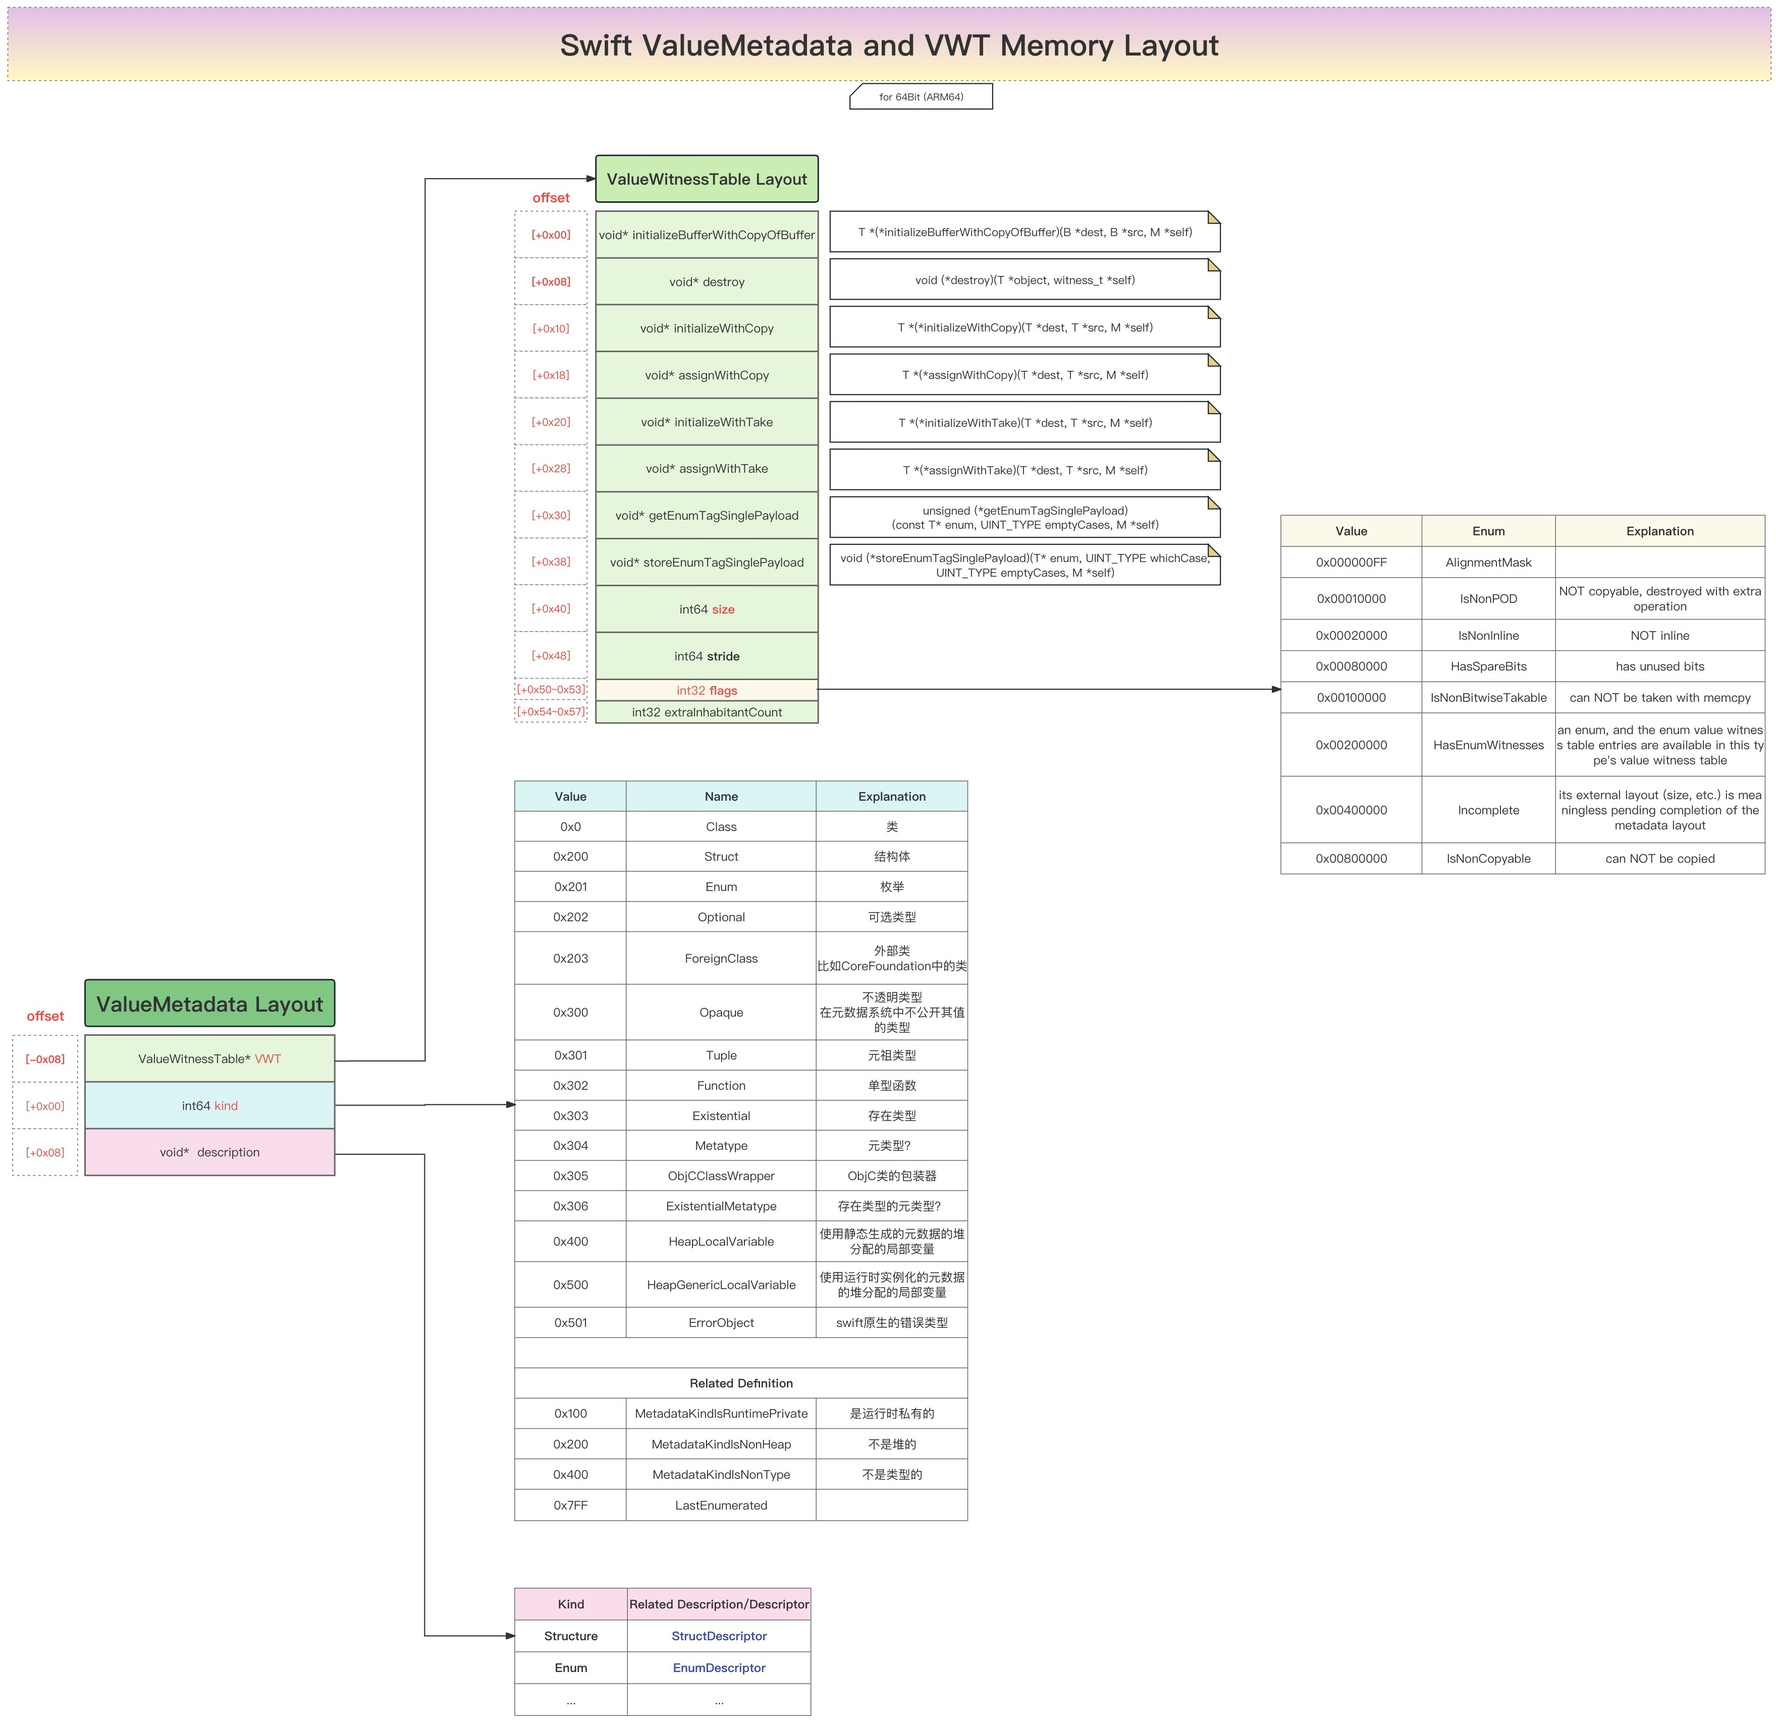
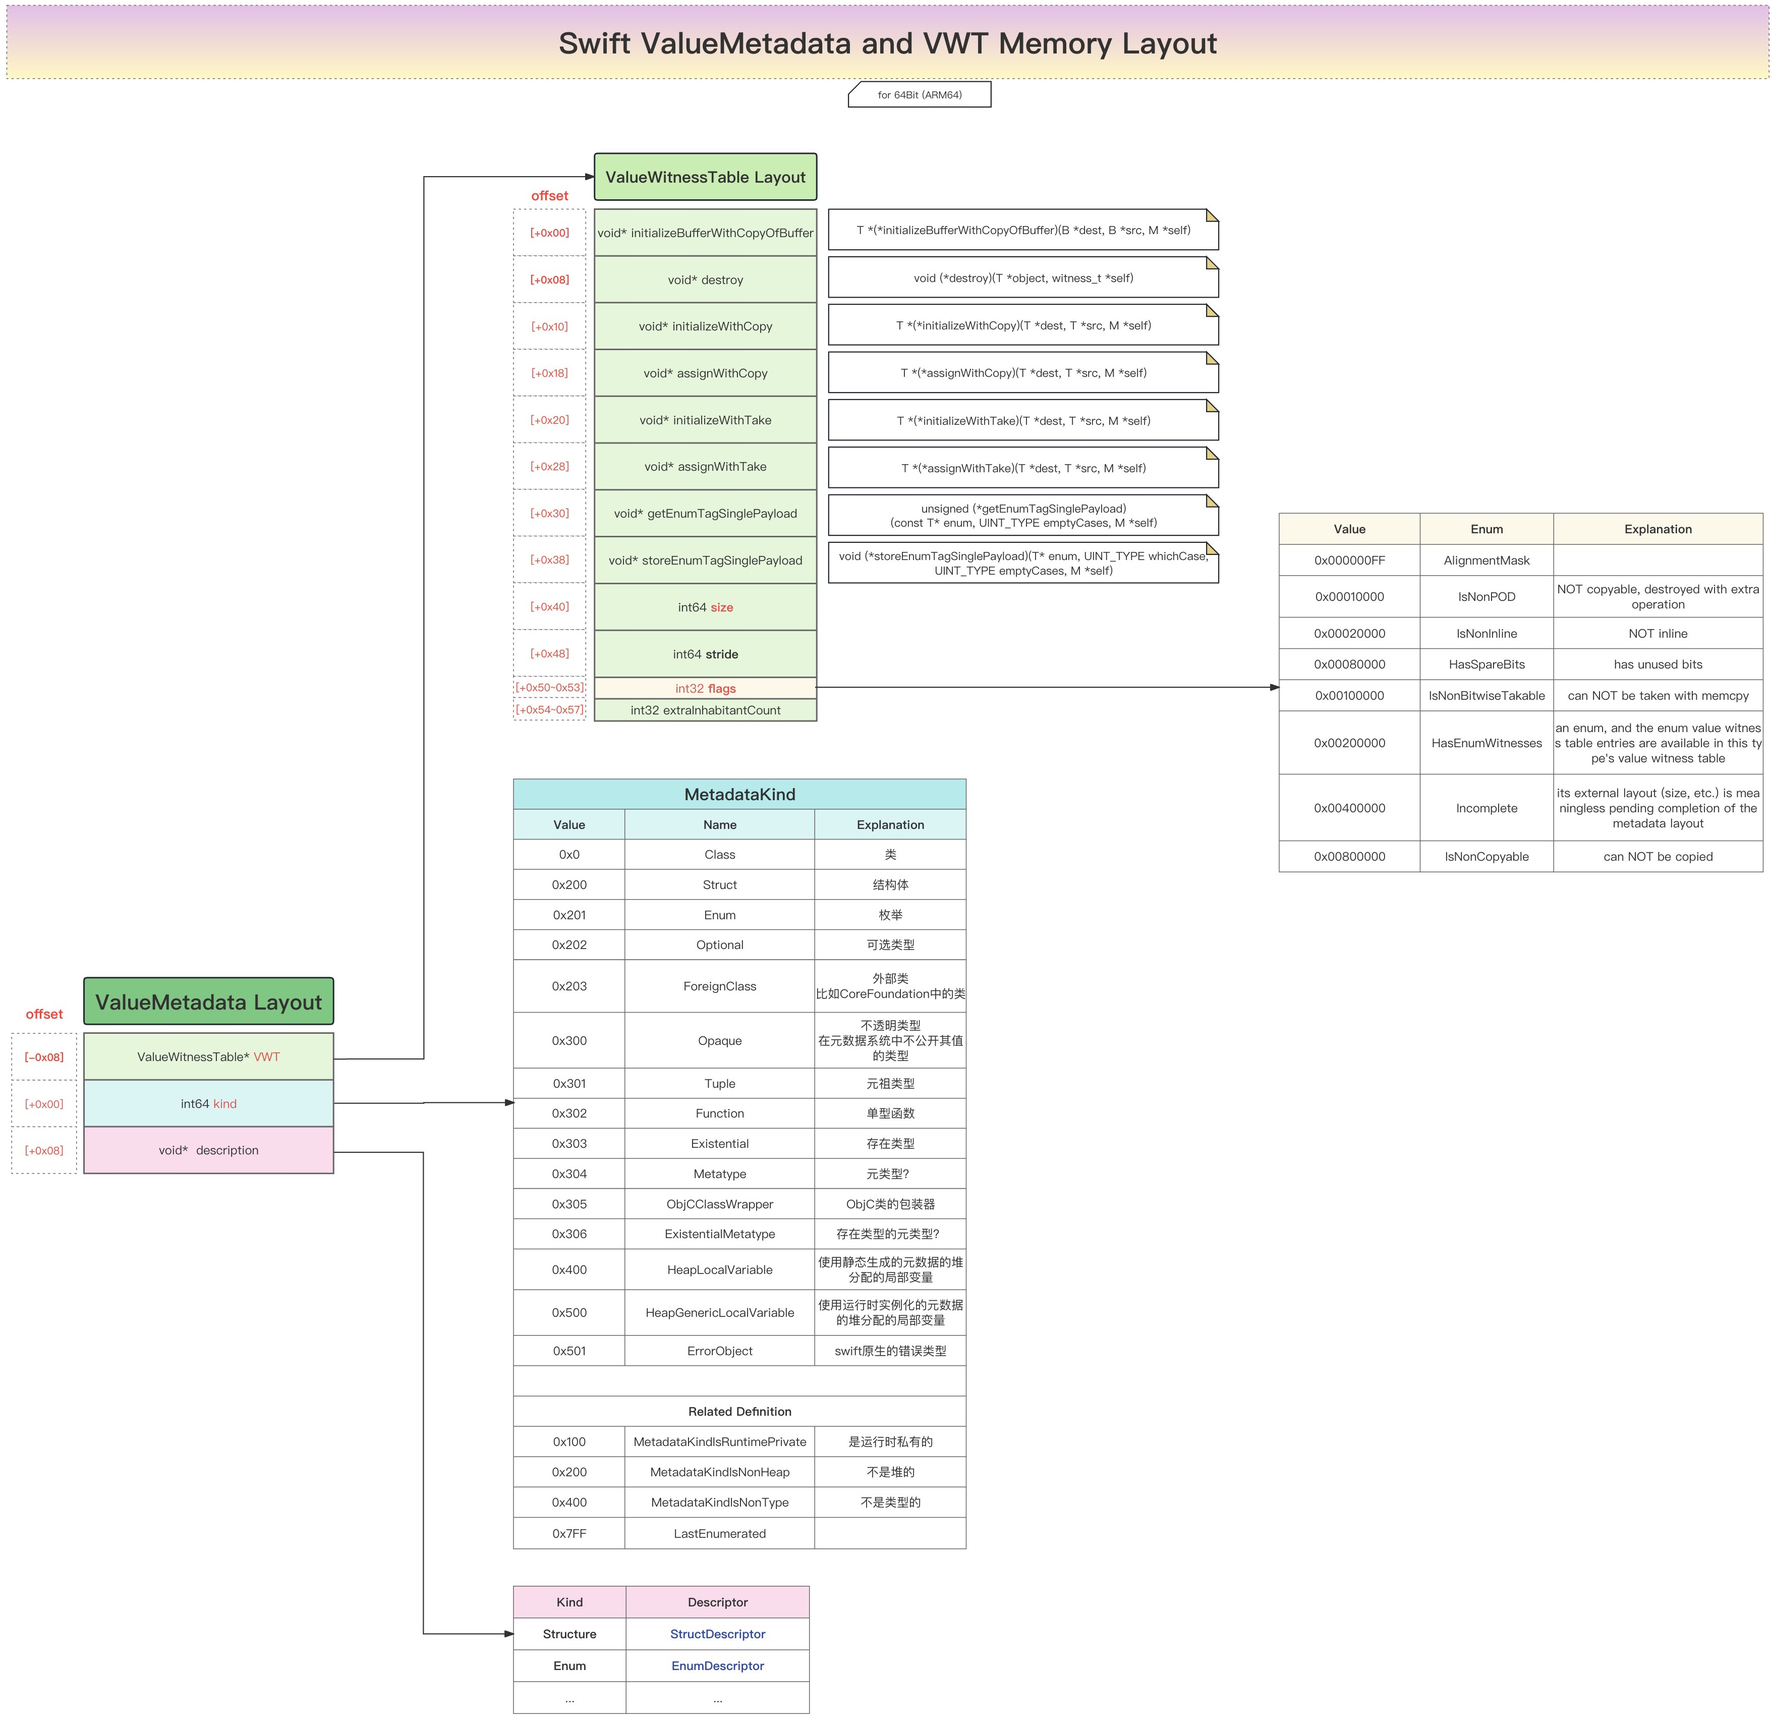
1. add Structure memory layout 2. update ValueMetadata memory layout

diff --git a/src/common_type/struct/memory_layout/example.md b/src/common_type/struct/memory_layout/example.md
@@ -1,1 +1,273 @@
 # 举例
+
+## 纯Structure=不带Protocol的Structure
+
+```swift
+struct Person {
+    let name = "Crifan Li"
+    let height = 1.83
+    let isMale = true
+    let age = 20
+}
+var person = Person()
+```
+
+对应内存数据：
+
+```bash
+(lldb) x/8xg 0x0000000102f82bf0
+0x102f82bf0: 0x4c206e6166697243 0xe900000000000069
+0x102f82c00: 0x3ffd47ae147ae148 0x0000000000000001
+0x102f82c10: 0x0000000000000014 0x0000000000000000
+0x102f82c20: 0x0000000000000000 0x0000000000000000
+(lldb) p/c 0x4c206e6166697243
+(Int) Crifan L
+(lldb) p/c 0x00000000000069
+(Int) i\0\0\0\0\0\0\0
+(lldb) p/f 0x3ffd47ae147ae148
+(Int) 1.8300000000000001
+(lldb) x/8xb 0x102f82c08
+0x102f82c08: 0x01 0x00 0x00 0x00 0x00 0x00 0x00 0x00
+(lldb) p/d 0x0000000000000014
+(Int) 20
+```
+
+->
+
+* Person结构体
+  * 大小=40=0x28
+  * 内存布局
+    * Person实例= person = 0x0000000102f82bf0
+      * [+0x00~0x08] = String name
+        * 0x4c206e6166697243 0xe900000000000069
+          * "Crifan Li"
+      * [+0x10] = Float height
+        * 0x3ffd47ae147ae148
+          * Float值：1.83
+      * [+0x18] = bool isMale
+        * 0x01 = true
+      * [+0x20] = Int age
+        * 0x0000000000000014 = 20
+
+## 带Protocol的Structure
+
+### Struct结构体字段可以放得下`ValueBuffer[3]`的内存布局
+
+代码：
+
+```swift
+protocol Drivable {
+    func drive()
+    var numberOfWheels: Int { get }
+}
+
+struct Car: Drivable {
+    let numberOfWheels = 4
+    let brand = "Tank300-Hi4T"
+
+    func drive() { }
+}
+
+var curCar:Drivable = Car()
+```
+
+->
+
+```bash
+(lldb) x/8xg 0x000000010227aba0
+0x10227aba0: 0x0000000000000004 0x2d3030336b6e6154
+0x10227abb0: 0xec00000054346948 0x0000000102274450
+0x10227abc0: 0x0000000102274188 0x0000000000000000
+0x10227abd0: 0x0000000000000000 0x0000000000000000
+
+(lldb) p/c 0x2d3030336b6e6154
+(Int) Tank300-
+(lldb) p/c 0x00000054346948
+(Int) Hi4T\0\0\0\0
+```
+
+->
+
+* Protocol的Structure，字段没超过ValueBuffer[3] = ValueBuffer[3]可以放得下Structure的字段 的内存布局：Car = 0x000000010227aba0
+  * [+0x00] = ValueBuffer[0] = int64 numberOfWheels
+    * 0x0000000000000004
+  * [+0x08~0x10] = ValueBuffer[1:2] = String brand
+    * 0x2d3030336b6e6154 0xec00000054346948
+      * "Tank300-Hi4T"
+  * [+0x18] = TypeMetadata * typeMetadata
+    * 0x0000000102274450 = typeMetadata_struct_Car
+      * type metadata for SwiftBasic.Car
+  * [+0x20] = PWT * pwt
+    * 0x0000000102274188 = PWT_Car
+      * protocol witness table for SwiftBasic.Car : SwiftBasic.Drivable in SwiftBasic
+
+其中：
+
+* 0x0000000102274450 = typeMetadata_struct_Car
+
+```bash
+(lldb) im loo -va 0x0000000102274450
+  Address: SwiftBasic[0x0000000100018450] (SwiftBasic.__DATA_CONST.__const + 808)
+  Summary: SwiftBasic`type metadata for SwiftBasic.Car
+    Module: file = "/Users/crifan/Library/Developer/Xcode/DerivedData/SwiftBasic-gbbekuhnjvcbzueioosvbqhdnlyq/Build/Products/Debug-iphoneos/SwiftBasic.app/SwiftBasic", arch = "arm64"
+    Symbol: id = {0x000004be}, range = [0x0000000102274450-0x0000000102274468), name="type metadata for SwiftBasic.Car", mangled="$s10SwiftBasic3CarVN"
+```
+
+* 0x0000000102274188 = PWT_Car
+
+```bash
+(lldb) im loo -va 0x0000000102274188
+  Address: SwiftBasic[0x0000000100018188] (SwiftBasic.__DATA_CONST.__const + 96)
+  Summary: SwiftBasic`protocol witness table for SwiftBasic.Car : SwiftBasic.Drivable in SwiftBasic
+    Module: file = "/Users/crifan/Library/Developer/Xcode/DerivedData/SwiftBasic-gbbekuhnjvcbzueioosvbqhdnlyq/Build/Products/Debug-iphoneos/SwiftBasic.app/SwiftBasic", arch = "arm64"
+    Symbol: id = {0x000004ac}, range = [0x0000000102274188-0x00000001022741a0), name="protocol witness table for SwiftBasic.Car : SwiftBasic.Drivable in SwiftBasic", mangled="$s10SwiftBasic3CarVAA8DrivableAAWP"
+```
+
+### Structue字段超过`ValueBuffer[3]`的Struct结构体的内存布局
+
+代码：
+
+```swift
+protocol Drivable {
+    func drive()
+    var numberOfWheels: Int { get }
+}
+
+struct Bus: Drivable {
+    let numberOfWheels = 8
+    let fare = 2.25
+    let seats = 28
+    let totalOccupancy = 38
+
+    let isElectric = true
+
+    func drive() { }
+}
+
+var curBus:Drivable = Bus()
+```
+
+![xcode_struct_protocol_car](../../../assets/img/xcode_struct_protocol_car.png)
+
+对应的生成的相关初始化代码是：
+
+```c
+void *_s6Empty221PersistenceControllerV6sharedACvau_5()
+{
+  if ( one-time initialization token for curBus != -1 )
+    swift_once(&one-time initialization token for curBus, one-time initialization function for curBus);
+  return &curBus;
+}
+```
+
+![struct_ida_car_init_token](../../../assets/img/struct_ida_car_init_token.png)
+
+和：
+
+```c
+void *one-time initialization function for curBus()
+{
+  char copySrc[33]; // [xsp+28h] [xbp-28h] BYREF
+
+  Bus.init()();
+  TypeMetadata_Bus_10001EBE0 = &type metadata for Bus;
+  PWT_Bus_10001EBE8 = &protocol witness table for Bus;
+  curBus = swift_allocObject(&MetadataKind_HeapLocalVariable_Bus_100018598, 0x38LL, 7LL);
+  return memcpy((void *)(curBus + 0x10LL), copySrc, 0x21uLL);
+}
+```
+
+![struct_ida_car_init_func](../../../assets/img/struct_ida_car_init_func.png)
+
+-》相关调试数据：
+
+```bash
+-------------- Drivable --------------
+变量的地址: 0x0000000104bdebc8
+变量的内存: 0x0000000283354140 0x0000000000000000 0x0000000000000000 0x0000000104bd84d0 0x0000000104bd81a0
+变量的大小: 40=0x28
+
+(lldb) x/6xg 0x0000000104bdebc8
+0x104bdebc8: 0x0000000283354140 0x0000000000000000
+0x104bdebd8: 0x0000000000000000 0x0000000104bd84d0
+0x104bdebe8: 0x0000000104bd81a0 0x0000000000000000
+(lldb) x/8xg 0x0000000283354140
+0x283354140: 0x0000000104bd8598 0x0000000000000003
+0x283354150: 0x0000000000000008 0x4002000000000000
+0x283354160: 0x000000000000001c 0x0000000000000026
+0x283354170: 0x00000003f11bc601 0x00000001f9b262ce
+(lldb) im loo -va 0x0000000104bd84d0
+      Address: SwiftBasic[0x00000001000184d0] (SwiftBasic.__DATA_CONST.__const + 936)
+      Summary: SwiftBasic`type metadata for SwiftBasic.Bus
+       Module: file = "/Users/crifan/Library/Developer/Xcode/DerivedData/SwiftBasic-gbbekuhnjvcbzueioosvbqhdnlyq/Build/Products/Debug-iphoneos/SwiftBasic.app/SwiftBasic", arch = "arm64"
+       Symbol: id = {0x000004c1}, range = [0x0000000104bd84d0-0x0000000104bd84f8), name="type metadata for SwiftBasic.Bus", mangled="$s10SwiftBasic3BusVN"
+(lldb) im loo -va 0x0000000104bd81a0
+      Address: SwiftBasic[0x00000001000181a0] (SwiftBasic.__DATA_CONST.__const + 120)
+      Summary: SwiftBasic`protocol witness table for SwiftBasic.Bus : SwiftBasic.Drivable in SwiftBasic
+       Module: file = "/Users/crifan/Library/Developer/Xcode/DerivedData/SwiftBasic-gbbekuhnjvcbzueioosvbqhdnlyq/Build/Products/Debug-iphoneos/SwiftBasic.app/SwiftBasic", arch = "arm64"
+       Symbol: id = {0x000004ad}, range = [0x0000000104bd81a0-0x0000000104bd81b8), name="protocol witness table for SwiftBasic.Bus : SwiftBasic.Drivable in SwiftBasic", mangled="$s10SwiftBasic3BusVAA8DrivableAAWP"
+(lldb) p/f 0x4002000000000000
+(Int) 2.25
+(lldb) p/d 0x000000000000001c
+(Int) 28
+(lldb) p/d 0x0000000000000026
+(Int) 38
+(lldb) x/8xb 0x283354170
+0x283354170: 0x01 0xc6 0x1b 0xf1 0x03 0x00 0x00 0x00
+(lldb) x/2xg 0x0000000104bd8598
+0x104bd8598: 0x0000000000000400 0x0000000000000010
+```
+
+->含义：
+
+* Protocol的Structure的，且Structure字段超过ValueBuffer[3]的（Bus的）内存布局 = 
+  * [+0x00] = ValueBuffer[0] = Structure的指针
+    * 0x0000000283354140 = curBus的ptr
+      * [+0x00] = MetadataKind kind
+        * = 0x0000000000000400 == HeapLocalVariable
+          * Bus是HeapLocalVariable类型变量
+            * 内存是在堆中分配的
+            * 且是个本地临时变量
+      * [+0x08] = int64 refCount
+        * 0x0000000000000003
+      * Structure自己的属性值
+        * [+0x10] = int64 numberOfWheels
+          * 0x0000000000000008
+        * [+0x18] = float fare
+          * 0x4002000000000000 == 2.25
+        * [+0x20] = int64 seats
+          * 0x000000000000001c == 28
+        * [+0x28] = int64 totalOccupancy
+          * 0x0000000000000026 == 38
+        * [+0x30] = bool(int8) isElectric
+          * 0x01
+  * [+0x08] = ValueBuffer[1] = 空 = 没用
+  * [+0x10] = ValueBuffer[2] = 空 = 没用
+  * [+0x18] = TypeMetadata * typeMetadata
+    * 0x0000000104bd84d0 = typeMetadata_struct_Bus
+      * type metadata for SwiftBasic.Bus
+  * [+0x20] = PWT * pwt
+    * 0x0000000104bd81a0 = PWT_Bus
+      * protocol witness table for SwiftBasic.Bus : SwiftBasic.Drivable in SwiftBasic
+
+其中：
+
+* 0x0000000104bd84d0 = typeMetadata_struct_Bus
+
+```bash
+(lldb) im loo -va 0x0000000104bd84d0
+  Address: SwiftBasic[0x00000001000184d0] (SwiftBasic.__DATA_CONST.__const + 936)
+  Summary: SwiftBasic`type metadata for SwiftBasic.Bus
+    Module: file = "/Users/crifan/Library/Developer/Xcode/DerivedData/SwiftBasic-gbbekuhnjvcbzueioosvbqhdnlyq/Build/Products/Debug-iphoneos/SwiftBasic.app/SwiftBasic", arch = "arm64"
+    Symbol: id = {0x000004c1}, range = [0x0000000104bd84d0-0x0000000104bd84f8), name="type metadata for SwiftBasic.Bus", mangled="$s10SwiftBasic3BusVN"
+```
+
+* 0x0000000104bd81a0 = PWT_Bus
+
+```bash
+(lldb) im loo -va 0x0000000104bd81a0
+  Address: SwiftBasic[0x00000001000181a0] (SwiftBasic.__DATA_CONST.__const + 120)
+  Summary: SwiftBasic`protocol witness table for SwiftBasic.Bus : SwiftBasic.Drivable in SwiftBasic
+    Module: file = "/Users/crifan/Library/Developer/Xcode/DerivedData/SwiftBasic-gbbekuhnjvcbzueioosvbqhdnlyq/Build/Products/Debug-iphoneos/SwiftBasic.app/SwiftBasic", arch = "arm64"
+    Symbol: id = {0x000004ad}, range = [0x0000000104bd81a0-0x0000000104bd81b8), name="protocol witness table for SwiftBasic.Bus : SwiftBasic.Drivable in SwiftBasic", mangled="$s10SwiftBasic3BusVAA8DrivableAAWP"
+```

diff --git a/README.md b/README.md
@@ -1,11 +1,11 @@
 # iOS逆向：Swift逆向
 
-* 最新版本：`v1.1.0`
-* 更新时间：`20240228`
+* 最新版本：`v1.3.0`
+* 更新时间：`20240302`
 
 ## 简介
 
-整理iOS逆向期间，关于Swift逆向相关的各种知识。包括通用逻辑和各种常见类型，尤其是各种类型的内存布局。
+整理iOS逆向期间，关于Swift逆向相关的各种知识。最开始是Swift逆向概览；其中包括脑图；然后是Swift基础知识；接着是逆向常会涉及到的Swift常用函数；然后是Swift逆向常涉及的方面，包括静态分析和动态调试，静态分析包括导出头文件和IDA分析；然后是最终要的，通用逻辑，包括TypeMetadata、VWT、StructMetadata以及ClassMetadata，和通用的MetadataKind等；然后是常用的类型，包括Array数组和内存布局详情、Bool变量、Data数据和内存布局详情、Dictionary字典和内存布局详情、Enum枚举、Set集合和内存布局详情、String字符串和内存布局详情、Struct结构体和内存布局详情、Tuple元祖。
 
 ## 源码+浏览+下载
 

diff --git a/src/README.md b/src/README.md
@@ -1,11 +1,11 @@
 # iOS逆向：Swift逆向
 
-* 最新版本：`v1.1.0`
-* 更新时间：`20240228`
+* 最新版本：`v1.3.0`
+* 更新时间：`20240302`
 
 ## 简介
 
-整理iOS逆向期间，关于Swift逆向相关的各种知识。包括通用逻辑和各种常见类型，尤其是各种类型的内存布局。
+整理iOS逆向期间，关于Swift逆向相关的各种知识。最开始是Swift逆向概览；其中包括脑图；然后是Swift基础知识；接着是逆向常会涉及到的Swift常用函数；然后是Swift逆向常涉及的方面，包括静态分析和动态调试，静态分析包括导出头文件和IDA分析；然后是最终要的，通用逻辑，包括TypeMetadata、VWT、StructMetadata以及ClassMetadata，和通用的MetadataKind等；然后是常用的类型，包括Array数组和内存布局详情、Bool变量、Data数据和内存布局详情、Dictionary字典和内存布局详情、Enum枚举、Set集合和内存布局详情、String字符串和内存布局详情、Struct结构体和内存布局详情、Tuple元祖。
 
 ## 源码+浏览+下载
 

diff --git a/src/common_type/struct/memory_layout/text.md b/src/common_type/struct/memory_layout/text.md
@@ -1,2 +1,16 @@
 # 文字
 
+* Swift的Structure内存布局 概述
+  * `Pure Structure`
+    * 符合对齐标准，挨个字段存放
+  * `Protocol Structure`
+    * 字段**没超过**`ValueBuffer[3]` == `ValueBuffer[3]`能放得下Structure的所有字段值
+      * `ValueBuffer[0~3]`：符合对齐标准，挨个字段存放
+      * `[+0x18] = TypeMetadata* metadata`
+      * `[+0x20] = ProtocolWitnessTable* pwt`
+    * 字段**超过**`ValueBuffer[3]` == `ValueBuffer[3]`放不下Structure的所有字段值
+      * `ValueBuffer[0] = void* realStruct` = 真正结构体Structure字段
+      * `ValueBuffer[1]` = 没用 = 无效数据
+      * `ValueBuffer[2]` = 没用 = 无效数据
+      * `[+0x18] = TypeMetadata* metadata`
+      * `[+0x20] = ProtocolWitnessTable* pwt`

diff --git a/src/common_type/struct/memory_layout/figure.md b/src/common_type/struct/memory_layout/figure.md
@@ -1,1 +1,9 @@
 # 图
+
+* Swift的Structure内存布局图 = Swift Structure Memory Layout
+  * 在线预览
+    * [Swift的Structure内存布局图| ProcessOn免费在线作图,在线流程图,在线思维导图](https://www.processon.com/view/link/65e2e4ad5a48bc0276931c1c)
+  * 离线查看
+    * ![swift_structure_memory_layout](../../../assets/img/swift_structure_memory_layout.jpg)
+  * 核心内容
+    * ![swift_structure_memory_layout_core](../../../assets/img/swift_structure_memory_layout_core.jpg)

diff --git a/src/SUMMARY.md b/src/SUMMARY.md
@@ -31,7 +31,6 @@
         * [IDA定义](swift_common/typemetadata/classmetadata/memory_layout/ida_def.md)
         * [举例](swift_common/typemetadata/classmetadata/memory_layout/example.md)
   * [MetadataKind](swift_common/metadatakind.md)
-  * [ValueBuffer](swift_common/valuebuffer.md)
 * [常用类型](common_type/README.md)
   * [Array数组](common_type/array/README.md)
     * [内存布局](common_type/array/memory_layout/README.md)

diff --git a/src/swift_common/metadatakind.md b/src/swift_common/metadatakind.md
@@ -1,6 +1,12 @@
 # MetadataKind = Metadata的type
 
-Swift中Metadata的Type的定义
+Swift中Metadata的Type == MetadataKind 的定义
+
+## 图
+
+* MetadataKind的定义 表格
+  * ![swift_metadatakind_table](../assets/img/swift_metadatakind_table.jpg)
+    * == [Swift的ValueMetadata和VWT的内存布局图](../swift_common/typemetadata/valuemetadata/README.md)中的`MetadataKind`的表格
 
 ## 核心代码
 

diff --git a/src/swift_common/typemetadata/README.md b/src/swift_common/typemetadata/README.md
@@ -12,10 +12,10 @@
 另外一种表述：
 
 * Swift中的`Metadata`
-  * `TargetMetadata`
-    * `ClassMetadata`
+  * **TargetMetadata**
+    * **ClassMetadata**
       * ==`TargetClassMetadata`
       * 适用于：**Class类**
-    * `ValueMetadata`
+    * **ValueMetadata**
       * ==`TargetValueMetadata`
       * 适用于：**非Class** == `Struct`、`Enum`、`Optional`等**Value**

diff --git a/src/swift_common/README.md b/src/swift_common/README.md
@@ -1,7 +1,9 @@
 # Swift通用逻辑
 
 * 其他
-  * ValueBuffer
+  * Protocol
+    * `PWT`=`Protocol Witness Table` = `ProtocolWitnessTable`
+    * `ValueBuffer`
   * Exitential Container?
     * Box?
   * Opaque ?
